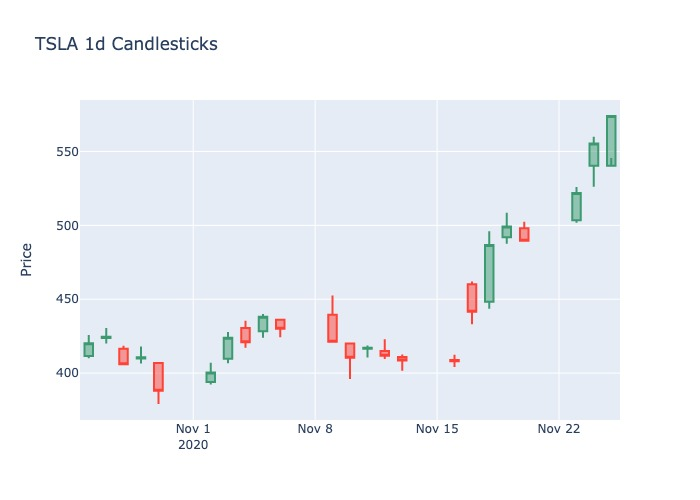
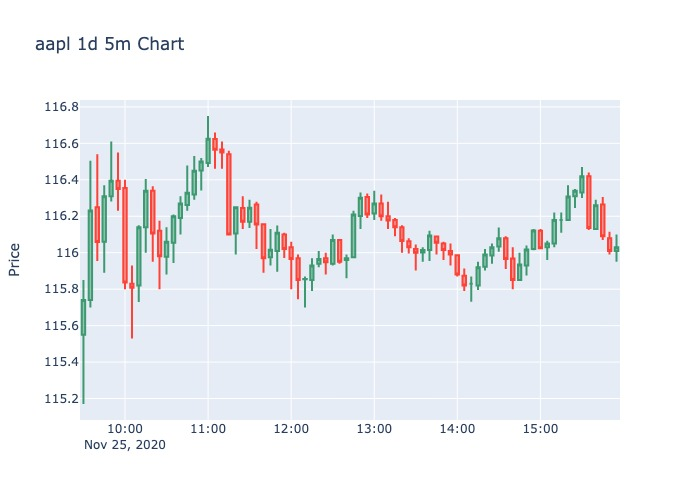
Added user input for charts

diff --git a/src/main/kotlin/graph.kt b/src/main/kotlin/graph.kt
@@ -11,13 +11,13 @@ import java.nio.file.Path
 import java.util.*
 
 
-fun getGraph() : Message {
+fun getGraph(ticker: String, period : String, interval : String) : Message {
 
 
     //println(System.getProperty("user.dir"))
     val userDirectory = System.getProperty("user.dir")
     val path = "$userDirectory/src/plot.py"
-    val process = Runtime.getRuntime().exec("python3 $path")
+    val process = Runtime.getRuntime().exec("python3 $path $ticker $period $interval")
     process.waitFor()
 
     val imageB = get64BaseImage("$userDirectory/src/images/fig1.jpg")

diff --git a/src/main/kotlin/bot.kt b/src/main/kotlin/bot.kt
@@ -33,7 +33,10 @@ suspend fun main() {
                 reply(response)
             }
             command("graph") {
-                val chart = getGraph()
+                val interval = this.words[this.words.size - 1]
+                val period = this.words[this.words.size - 2]
+                val tickerName = this.words[this.words.size - 3]
+                val chart = getGraph(tickerName, period, interval)
                 reply(chart.text, chart.embed?.embed())
             }
             command("insult"){

diff --git a/src/plot.py b/src/plot.py
@@ -18,20 +18,23 @@
 import plotly.graph_objects as go
 import yfinance as yf
 import os
+import sys
 from yahoofinancials import YahooFinancials
 import pandas as pd
 from datetime import datetime
 
-newtime = yf.download("TSLA", period="1mo", interval="1d")
-# print(newtime)
+ticker = sys.argv[1]
+period = sys.argv[2]
+interval = sys.argv[3]
+title = "{0} {1} {2} Chart".format(ticker, period, interval)
+
+newtime = yf.download(ticker, period=period, interval=interval)
+
 dates = []
 currentDirectory = os.getcwd()
 path = currentDirectory + "/src/images/fig1.jpg"
 for i, j in newtime.iterrows():
     dates.append(i)
-
-
-#df = pd.read_csv('https://raw.githubusercontent.com/plotly/datasets/master/finance-charts-apple.csv')
 
 fig = go.Figure(data=[go.Candlestick(x=dates,
                 open=newtime['Open'],
@@ -40,10 +43,8 @@ fig = go.Figure(data=[go.Candlestick(x=dates,
                 close=newtime['Close'])])
 
 fig.update_layout(
-    title='TSLA 1d Candlesticks',
+    title=title,
     yaxis_title='Price',
     xaxis_rangeslider_visible=False)
-
-#fig.show()
 
 fig.write_image(path)
